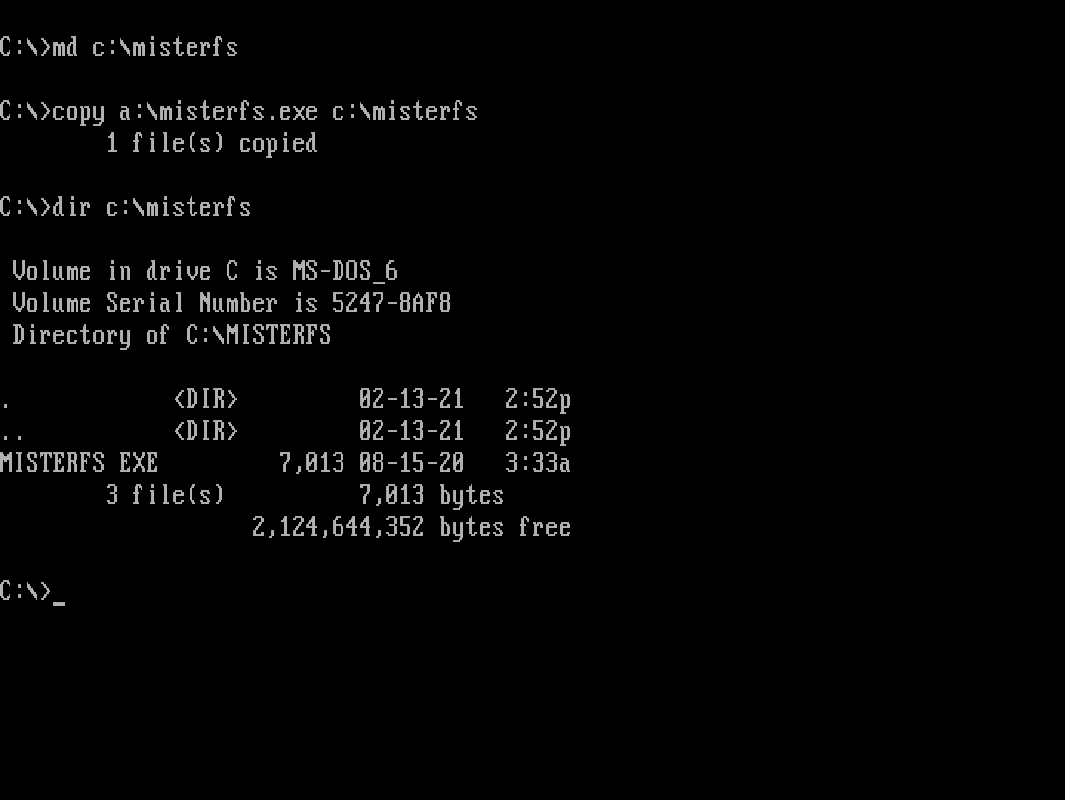
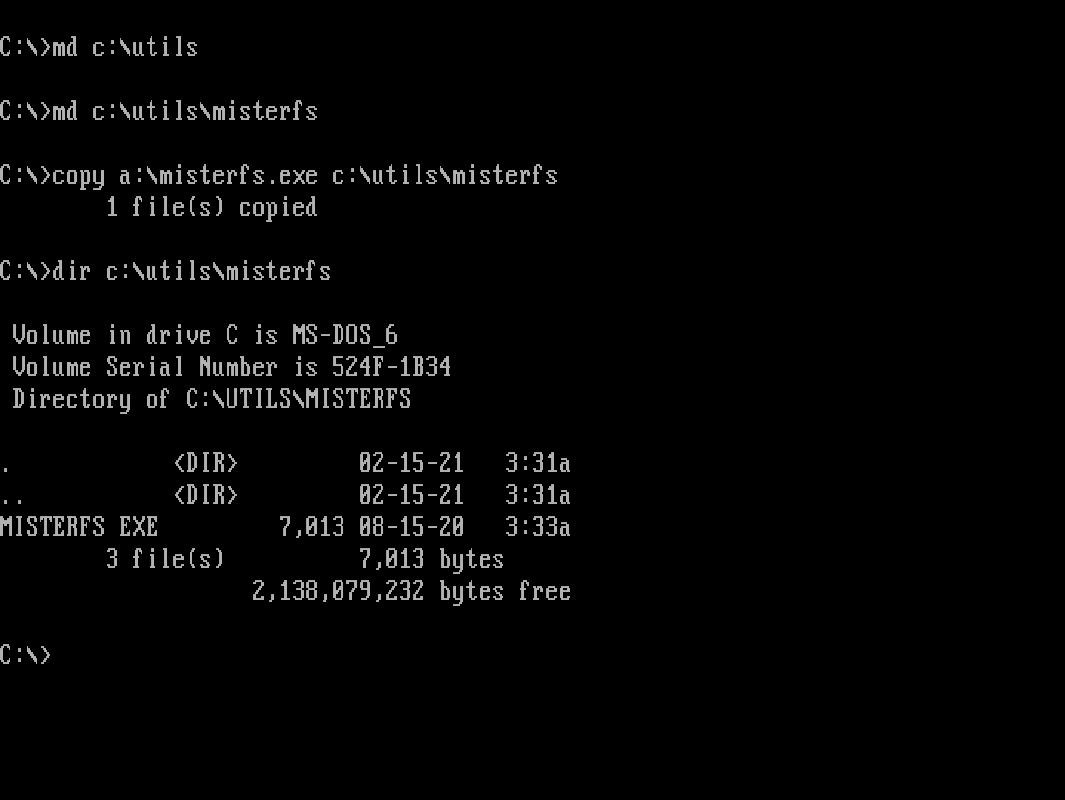
Redraft MiSTerFS post

diff --git a/_posts/2021-02-14-mister-ao486-core-part-2-transferring-files-with-misterfs.md b/_posts/2021-02-14-mister-ao486-core-part-2-transferring-files-with-misterfs.md
@@ -1,7 +1,7 @@
 ---
 layout: post
-title: "MiSTer AO486 Core Part 3 – Sharing Files With MiSTerFS"
-date: '2021-02-14 17:49:00:00'
+title: "MiSTer AO486 Core Part 2 – Sharing Files With MiSTerFS"
+date: '2021-02-14 22:55:00:00'
 summary: Sharing files with MiSTerFS ...
 tags: [Retrocomputing, Retrogaming, FPGA, MiSTer, Single-Board Computing]
 ---
@@ -34,8 +34,9 @@ To install MiSTerFS:
 5. Run the following commands to copy the MiSTerFS executable to your hard disk:
 
 ```
-md c:\misterfs
-copy a:\misterfs.exe c:\misterfs
+md c:\utils
+md c:\utils\misterfs
+copy a:\misterfs.exe c:\utils\misterfs
 ```
 
 ![](/img/posts/mister-ao486-copy-misterfs-files-to-ao486-dos.png)
@@ -44,12 +45,39 @@ copy a:\misterfs.exe c:\misterfs
 6. Still on your MiSTer, type <code>edit c:\autoexec.bat</code>. An editor application will open. Add the following line:
 
 ```
-LH C:\MISTERFS\MISTERFS.EXE E /Q
+LH C:\UTILS\MISTERFS\MISTERFS.EXE E /Q
 ```
 
 &nbsp;&nbsp;&nbsp;&nbsp;&nbsp;&nbsp;This quiet-loads MiSTerFS into upper memory with drive letter <code>E:</code>. Hit *Alt+F,S* to save the file and then *Alt+F,X* to exit
 
 That's the setup done. Unmount <code>misterfs.img</code>, reboot the ao486 core and get ready to transfer files! 
+
+
+### Step 2 – Using MiSTerFS
+
+File transfer between PC and ao486 works in both directions. To copy files from your PC to ao486:
+
+1. Open a file tranfer tool (e.g. FileZilla) on your PC
+
+2. Navigate to <code>/media/fat/games/AO486</code>
+
+3. Create a folder named <code>shared</code> (if it doesn’t exist already):
+
+![](/img/posts/mister-ao486-misterfs-create-shared-folder-using-filezilla.png)
+
+{:start="4"}
+4. Drag-and-drop files into the <code>shared</code> folder:
+
+![](/img/posts/mister-ao486-misterfs-copy-files-to-shared-folder-using-filezilla.png)
+
+{:start="5"}
+5. In ao486, verify that the files appear under the <code>E:</code> drive:
+
+![](/img/posts/mister-ao486-misterfs-files-copied-to-dos-using-filezilla.png)
+
+To transfer files from ao486 to PC, simply do the reverse.
+
+That's it for MiSTerFS. You'll come to rely on this a lot for file transfer.
 
 
 ### Other Posts in this Series
